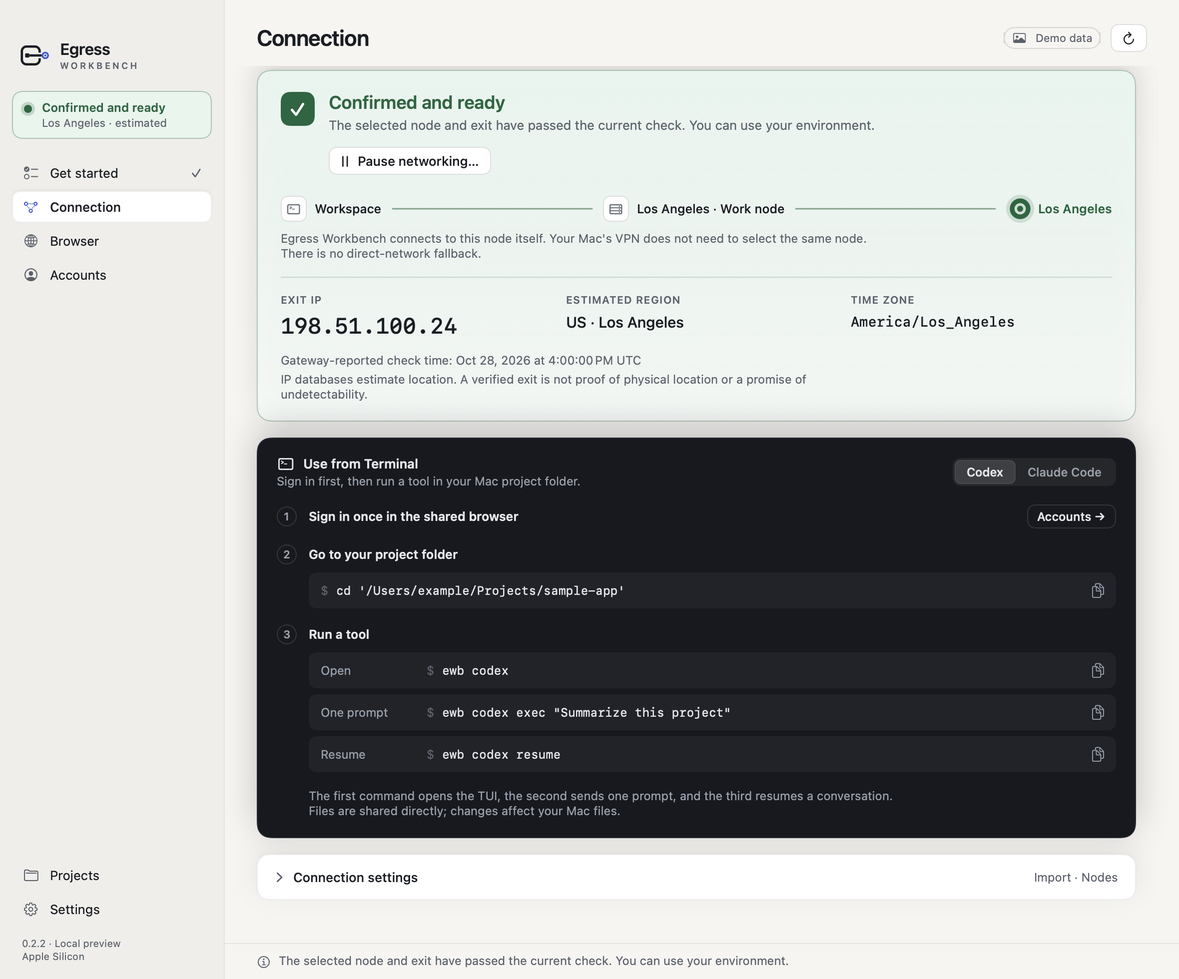
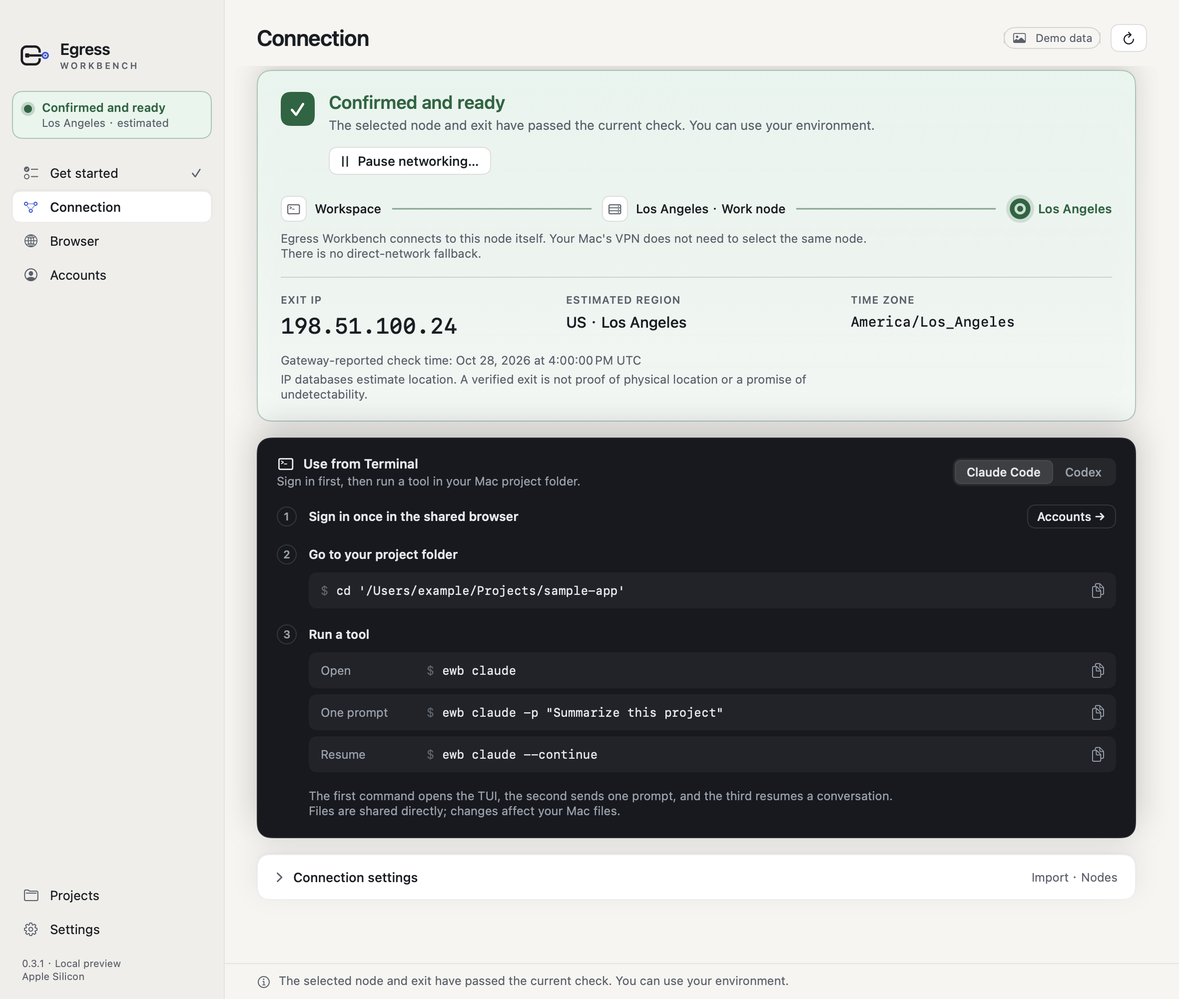
Present the fingerprint runtime environment with Claude Code first

diff --git a/README.md b/README.md
@@ -1,35 +1,39 @@
 <p align="center"><img src="assets/logo.svg" width="88" alt="Egress Workbench logo"></p>
-<h1 align="center">Egress Workbench</h1>
-<p align="center">Your tools. One confirmed route.</p>
+<h1 align="center">Egress Workbench | Fingerprint Runtime Environment</h1>
+<p align="center">A fingerprint-browser-style workspace for Claude Code and Codex.</p>
 <p align="center"><strong>English</strong> · <a href="README.zh-CN.md">简体中文</a></p>
 
-Egress Workbench is a macOS app for running Codex, Claude Code and a shared Chromium browser in persistent Linux workspaces. Your project files stay on your Mac; the tools can read and edit the folder you choose. Application traffic goes through the connection node you select and confirm.
+Egress Workbench is a **fingerprint runtime environment** for macOS. Think of the idea behind a fingerprint browser, extended to command-line tools: Claude Code, Codex and shared Chromium work within the same environment, using your selected network exit and configured time zone. The tools run in persistent Linux workspaces and can read and edit the project folder you choose on your Mac.
+
+The name describes this product approach. The current implementation checks the exit IP and estimated region, applies the configured time zone, and preserves tool and browser state. Linux, container and hardware characteristics may remain detectable; this is not a physical-machine emulator or an anonymity, anti-ban or account-acceptance guarantee. Other tools need their own compatibility checks.
 
 **Set up once, then work from Terminal.** Software, sign-ins and conversations survive stopping and restarting the environment. Different projects have separate workspace directories; the supported tools share their account authorization.
 
-> **0.3.0 release:** this repository contains the public documentation and screenshots. Download the Apple Silicon DMG from the [v0.3.0 release](https://github.com/bbfp/egress-workbench-app/releases/tag/v0.3.0). The app is ad-hoc signed and has not been Apple-notarized.
+> **0.3.1 release:** this repository contains the public documentation and screenshots. Download the Apple Silicon DMG from the [v0.3.1 release](https://github.com/bbfp/egress-workbench-app/releases/tag/v0.3.1). The app is ad-hoc signed and has not been Apple-notarized.
 
-## 0.3.0 release
+## 0.3.1 release
 
-[Download the full DMG, about 1.152 GB](https://github.com/bbfp/egress-workbench-app/releases/download/v0.3.0/Egress-Workbench-0.3.0-arm64.dmg) · [SHA-256](https://github.com/bbfp/egress-workbench-app/releases/download/v0.3.0/Egress-Workbench-0.3.0-arm64.dmg.sha256) · [Release notes](https://github.com/bbfp/egress-workbench-app/releases/tag/v0.3.0)
+[Download the full DMG, about 1.149 GB](https://github.com/bbfp/egress-workbench-app/releases/download/v0.3.1/Egress-Workbench-0.3.1-arm64.dmg) · [SHA-256](https://github.com/bbfp/egress-workbench-app/releases/download/v0.3.1/Egress-Workbench-0.3.1-arm64.dmg.sha256) · [Release notes](https://github.com/bbfp/egress-workbench-app/releases/tag/v0.3.1)
 
 This release targets Apple Silicon Macs running macOS 14 or later. The DMG contains the offline environment and has this SHA-256 digest:
 
 ```text
[2 lines of base64/hex data omitted]
 ```
 
 The public repository contains guides and screenshots. The application source is not published here.
 
-0.3.0 uses MOYU attribution, keeps Swift debug symbols outside the distributed app, and stages Python from its verified original archive to avoid local build-cache paths. It retains the functionality of 0.2.9, which fixes Codex and Claude Code sign-in detection and makes account states easier to distinguish. It adds two network-check website shortcuts that open inside the shared Chromium browser. Docker containerd/classic compatibility, environment checks, read-only runtime component volumes, source protection and telemetry defaults are retained.
+0.3.1 updates the product introduction and examples, and puts Claude Code first in the app's command tabs, account cards and project buttons. Codex remains available with the same commands. Runtime components, Docker containerd/classic support, source protection and telemetry defaults are unchanged from 0.3.0.
+
+**This is a test release.** It began as a tool for personal use; bugs and compatibility gaps may remain. The repository publishes the App, documentation and screenshots, without the application's own source code.
 
 ![Native connection screen with explicitly labeled demonstration data](assets/connection-en.png)
 
-*Screenshots show the native app using labeled demonstration data. The example IP and region are illustrative, not a live connection measurement.*
+*Screenshots show the native app using labeled demonstration data. The IP, region and project paths shown are examples, not user data or live connection measurements.*
 
 ## What it does
 
-- **Persistent tools:** Codex, Claude Code and Chromium are included in the full installer. You bring your own accounts and connection subscription.
+- **Persistent tools:** Claude Code, Codex and Chromium are included in the full installer. You bring your own accounts and connection subscription.
 - **A controlled network route:** the environment connects to the chosen node itself. It does not fall back to an ordinary direct connection when the node is unavailable.
 - **Explicit connection approval:** inspect the measured exit IP, estimated region and time zone before enabling the environment. A detected node or exit change requires a new check and confirmation.
 - **Real project files:** run a command from your Mac project directory to share it with that project's Linux workspace. Multiple projects can run concurrently.
@@ -40,7 +44,7 @@ The public repository contains guides and screenshots. The application source is
 
 You need an **Apple Silicon Mac with macOS 14 or later**, a running **Docker Desktop** installation, enough storage for the included Linux environment, and a supported connection node. The app uses Docker Desktop's `desktop-linux` environment. OrbStack and Colima are detected but are not supported as runtime engines.
 
-Version 0.3.0 supports fixed public IPv4 nodes: **Trojan TCP/TLS, VMess AEAD TCP with optional TLS, VLESS TCP/TLS, and Shadowsocks AEAD/2022 TCP without plugins**. Existing subscription URLs, URI/Base64 lists, Clash `proxies`, and EWB profiles remain compatible. Unsupported transports and options are reported with a reason; the app does not silently convert them to a weaker connection mode.
+Version 0.3.1 supports fixed public IPv4 nodes: **Trojan TCP/TLS, VMess AEAD TCP with optional TLS, VLESS TCP/TLS, and Shadowsocks AEAD/2022 TCP without plugins**. Existing subscription URLs, URI/Base64 lists, Clash `proxies`, and EWB profiles remain compatible. Unsupported transports and options are reported with a reason; the app does not silently convert them to a weaker connection mode.
 
 A single-object Trojan client JSON can also be pasted or imported when it contains fields such as `type`, `host`, `port` and `password`. The optional `data` URL is not fetched or retained, and an `udp` flag does not enable UDP. Other raw client JSON exports are not supported yet.
 
@@ -52,10 +56,10 @@ A single-object Trojan client JSON can also be pasted or imported when it contai
 
 1. **Install the app.** Open the DMG, drag Egress Workbench to Applications, and launch Docker Desktop. Open Egress Workbench. Follow macOS's normal security approval process for a preview build; do not disable system protection globally.
 2. **Confirm a data folder.** Keep the default, or choose a dedicated folder on an external drive. Confirm this location before importing the environment.
-3. **Import the included environment.** The app verifies and imports the bundled components locally. It does not download Codex, Claude Code or Chromium one by one. Wait for installation to finish; a failed attempt retains existing data and can be retried in the same directory.
+3. **Import the included environment.** The app verifies and imports the bundled components locally. It does not download Claude Code, Codex or Chromium one by one. Wait for installation to finish; a failed attempt retains existing data and can be retried in the same directory.
 4. **Import and select a node.** Paste your subscription or node link, or choose a file. Pick a supported node and click **Check**. The app asks before stopping any running work in this environment to check a node. Subscriptions are parsed locally. A provider's certificate-compatibility setting may require a trust confirmation; no certificate file or fingerprint needs to be entered by hand.
 5. **Review the exit.** Check the exit IP, estimated region and time zone. Click **Review and confirm**. Continue only when the connection reads **Confirmed and ready**.
-6. **Sign in when needed.** Open **Accounts**, then choose Codex or Claude Code. Terminal shows progress. Complete authorization on the official page **inside the shared browser's remote screen**. Do not copy its authorization URL into the Mac browser's address bar.
+6. **Sign in when needed.** Open **Accounts**, then choose Claude Code or Codex. Terminal shows progress. Complete authorization on the official page **inside the shared browser's remote screen**. Do not copy its authorization URL into the Mac browser's address bar.
    You can skip the account step and return later. Finishing the setup guide does not certify an account login.
 7. **Open your project in Terminal.** Use the command examples on the Connection page. They target the selected data folder, even if your Mac already has another Egress Workbench installation.
 
@@ -89,16 +93,16 @@ The app shows a full command path when it cannot verify the short `ewb` entry. *
 cd /path/to/your-project
 
 # Interactive tools
-ewb codex
 ewb claude
+ewb codex
 
 # Send one request
-ewb codex exec "Summarize this project"
 ewb claude -p "Summarize this project"
+ewb codex exec "Summarize this project"
 
 # Continue an earlier conversation
-ewb codex resume
 ewb claude --continue
+ewb codex resume
 
 # Enter the project's Linux shell
 ewb shell
@@ -114,15 +118,15 @@ Save your work before checking a node: the check stops this environment's worklo
 
 ### Update an existing environment
 
-**From 0.2.9 to 0.3.0:** replace the app. The runtime components are byte-identical, so this release introduces no runtime migration or renewed sign-in requirement. macOS may ask you to approve opening the updated app.
+**From 0.2.9 or 0.3.0 to 0.3.1:** replace the app. The runtime components are byte-identical, so this release introduces no runtime migration or renewed sign-in requirement. macOS may ask you to approve opening the updated app.
 
 After replacing the app, check the runtime component status in Settings and use the offered update entry. The 0.2.7 → 0.2.9 update was tested with existing authorization, configuration, project records, writable container data and persistent volumes preserved, and the previous runtime backed up. Replacing the app alone does not update installed runtime components. Initialized 0.2.6 protected environments also retain the backup-and-upgrade path. End active sessions before updating. A successful update leaves the environment stopped until you check and confirm the connection again. An old directory that has not been initialized directs you to finish connection setup. Older or incompatible layouts require a new dedicated directory and retain the original data. If recovery is pending, keep Docker running and choose Continue recovery.
 
 ### Accounts
 
 ```sh
-ewb login                 # Codex
 ewb claude auth login     # Claude Code
+ewb login                 # Codex
 ```
 
 These commands use the shared internal browser. A failed internal browser flow stops rather than opening an account page in the Mac browser. The browser keeps its cookies, but providers can expire sessions or require new verification. **An unknown account status is not the same as being signed out.** Ordinary environment restarts do not deliberately erase authorization.
@@ -187,7 +191,7 @@ Created by [MOYU](https://github.com/bbfp).
 
 ## License and scope
 
-Licensor: MOYU. The [PolyForm Noncommercial License 1.0.0](LICENSE) covers MOYU's original documentation, images and descriptions in this repository, and the 0.3.0 Release App published on GitHub Releases, to the extent MOYU holds the relevant rights. The 0.3.0 Release App is offered for the noncommercial purposes stated in the license, subject to its scope and notices. Third-party components remain under their own licenses. If you copy or redistribute material covered by this license, include the LICENSE text or its official URL and any notices that LICENSE requires. The license includes its stated permissions for charitable, educational, public research, public safety or health, environmental protection and government institutions. If this summary conflicts with the [LICENSE](LICENSE) text, the LICENSE text controls.
+Licensor: MOYU. The [PolyForm Noncommercial License 1.0.0](LICENSE) covers MOYU's original documentation, images and descriptions in this repository, and the 0.3.0 and 0.3.1 Release Apps published on GitHub Releases, to the extent MOYU holds the relevant rights. The 0.3.0 and 0.3.1 Release Apps are offered for the noncommercial purposes stated in the license, subject to its scope and notices. Third-party components remain under their own licenses. If you copy or redistribute material covered by this license, include the LICENSE text or its official URL and any notices that LICENSE requires. The license includes its stated permissions for charitable, educational, public research, public safety or health, environmental protection and government institutions. If this summary conflicts with the [LICENSE](LICENSE) text, the LICENSE text controls.
 
 PolyForm Noncommercial is a noncommercial license. It is not an OSI-approved open-source license, and it does not permit commercial use. This repository only publishes documentation, images and the Release App; it does not publish Egress Workbench's own source code. Adding LICENSE does not mean that the source code has been published or grant additional rights to unpublished source. Third-party components and services remain subject to their own licenses, terms and policies.
 

diff --git a/README.zh-CN.md b/README.zh-CN.md
@@ -1,35 +1,39 @@
 <p align="center"><img src="assets/logo.svg" width="88" alt="Egress Workbench 标志"></p>
-<h1 align="center">Egress Workbench</h1>
-<p align="center">你的工作工具，只走已确认的连接。</p>
+<h1 align="center">Egress Workbench｜指纹运行环境</h1>
+<p align="center">类比指纹浏览器，让 Claude Code、Codex 在同一套运行环境中工作。</p>
 <p align="center"><a href="README.md">English</a> · <strong>简体中文</strong></p>
 
-Egress Workbench 是一个 macOS 应用，用来在持久化的 Linux 工作环境中运行 Codex、Claude Code 和共享 Chromium 浏览器。项目文件仍保存在 Mac 上，环境中的工具能够读写你选择的目录。应用流量通过你选择并确认的节点联网。
+Egress Workbench 是面向 macOS 的**指纹运行环境**。可以把它理解成把指纹浏览器的思路延伸到命令行工具：Claude Code、Codex 和共享 Chromium 在同一套环境中，使用所选网络出口与配置好的时区。工具运行在持久化 Linux 工作空间中，可以读写你在 Mac 上选定的项目目录。
+
+这个名字用于说明产品思路。目前实现的是出口 IP 与估计地区核对、时区配置，以及工具和浏览器状态的持久化。Linux、容器和硬件特征仍可能被识别；它不是物理机模拟器，也不保证匿名、防封或账号被服务商接受。其他工具需要单独确认兼容性。
 
 **配置一次，之后直接在终端工作。** 停止、重启环境会保留软件、登录和会话。不同项目使用各自的工作目录，已支持的工具共用账号授权。
 
-> **0.3.0 发布版：** 此仓库提供公开说明和配图。Apple Silicon 安装包位于 [v0.3.0 Release](https://github.com/bbfp/egress-workbench-app/releases/tag/v0.3.0)。当前为 ad-hoc 签名，尚未通过 Apple 公证。
+> **0.3.1 发布版：** 此仓库提供公开说明和配图。Apple Silicon 安装包位于 [v0.3.1 Release](https://github.com/bbfp/egress-workbench-app/releases/tag/v0.3.1)。当前为 ad-hoc 签名，尚未通过 Apple 公证。
 
-## 0.3.0 发布版
+## 0.3.1 发布版
 
-[下载完整 DMG，约 1.152 GB](https://github.com/bbfp/egress-workbench-app/releases/download/v0.3.0/Egress-Workbench-0.3.0-arm64.dmg) · [SHA-256](https://github.com/bbfp/egress-workbench-app/releases/download/v0.3.0/Egress-Workbench-0.3.0-arm64.dmg.sha256) · [发布说明](https://github.com/bbfp/egress-workbench-app/releases/tag/v0.3.0)
+[下载完整 DMG，约 1.149 GB](https://github.com/bbfp/egress-workbench-app/releases/download/v0.3.1/Egress-Workbench-0.3.1-arm64.dmg) · [SHA-256](https://github.com/bbfp/egress-workbench-app/releases/download/v0.3.1/Egress-Workbench-0.3.1-arm64.dmg.sha256) · [发布说明](https://github.com/bbfp/egress-workbench-app/releases/tag/v0.3.1)
 
 本版本适用于 Apple Silicon、macOS 14 及以上，DMG 内含离线运行环境。SHA-256：
 
 ```text
[2 lines of base64/hex data omitted]
 ```
 
 公开仓库只提供使用说明和截图，应用源码不在这里发布。
 
-0.3.0 统一使用 MOYU 署名，将 Swift 调试符号保留在发布包之外，并从校验过的原始压缩包装配 Python，避免带入本地缓存路径。功能延续 0.2.9：修复 Codex 和 Claude Code 登录状态识别，并用颜色、图标和文字区分账号状态。浏览器增加两个网络检测网站入口，始终在共享 Chromium 内打开。Docker containerd/classic 兼容、环境检查、运行组件只读卷、源码保护和遥测默认保持不变。
+0.3.1 调整产品介绍和示例，并将 App 的命令标签、账号卡片和项目按钮改为 Claude Code 优先。Codex 继续可用，命令保持原样。运行组件、Docker containerd/classic 支持、源码保护和遥测默认均延续 0.3.0。
+
+**目前是测试版。** 项目最初用于个人使用，仍可能存在 bug 和兼容性问题。仓库公开 App、文档和配图，暂不公开应用自有源码。
 
 ![原生连接页面，明确标注为演示数据](assets/connection-zh.png)
 
-*截图来自原生应用，使用了标注为“演示数据”的示例内容。图中的 IP 和地区仅作说明，不是实际连接检测结果。*
+*截图来自原生应用，使用了标注为“演示数据”的示例内容。图中的 IP、地区和项目路径均为示例，不是用户数据或实际连接检测结果。*
 
 ## 能做什么
 
-- **持久化工作工具：** 完整安装包内包含 Codex、Claude Code 和 Chromium。节点订阅和工具账号由你提供。
+- **持久化工作工具：** 完整安装包内包含 Claude Code、Codex 和 Chromium。节点订阅和工具账号由你提供。
 - **固定联网路径：** 环境自行连接你选择的节点。节点不可用时，不会自动退回普通网络。
 - **连接由你确认：** 先查看实测出口 IP、估计地区和时区，再启用环境。检测到节点或出口变化后，需要重新检查并确认。
 - **操作真实项目文件：** 从 Mac 项目目录运行命令，即可将它共享给对应的 Linux 工作环境。多个项目可以同时使用。
@@ -40,7 +44,7 @@ f5e044116f9c26d7722a3270e1318b3304dbf46c3f22291c5e1b115698f69202
 
 需要一台运行 **macOS 14 或更新版本的 Apple Silicon Mac**、已启动的 **Docker Desktop**、足以容纳 Linux 环境的磁盘空间，以及支持的连接节点。当前使用 Docker Desktop 的 `desktop-linux` 环境；OrbStack、Colima 可以被识别，但暂不支持作为运行引擎。
 
-0.3.0 支持固定公网 IPv4 节点：**Trojan TCP/TLS、VMess AEAD TCP（可带 TLS）、VLESS TCP/TLS，以及无插件的 Shadowsocks AEAD/2022 TCP**。已有订阅链接、URI/Base64、Clash `proxies` 和 EWB 节点配置继续兼容。不支持的传输或选项会说明原因，不会暗中降级连接方式。
+0.3.1 支持固定公网 IPv4 节点：**Trojan TCP/TLS、VMess AEAD TCP（可带 TLS）、VLESS TCP/TLS，以及无插件的 Shadowsocks AEAD/2022 TCP**。已有订阅链接、URI/Base64、Clash `proxies` 和 EWB 节点配置继续兼容。不支持的传输或选项会说明原因，不会暗中降级连接方式。
 
 也可以直接粘贴或选择单个 Trojan 客户端 JSON，需包含 `type`、`host`、`port`、`password` 等字段。可选的 `data` 地址不会被访问或保存，`udp` 标志不会开启 UDP。其他协议的单对象客户端 JSON 暂不支持。
 
@@ -52,10 +56,10 @@ f5e044116f9c26d7722a3270e1318b3304dbf46c3f22291c5e1b115698f69202
 
 1. **安装应用。** 打开 DMG，将 Egress Workbench 拖到“应用程序”，启动 Docker Desktop，再打开 Egress Workbench。按 macOS 的正常流程批准打开预览版，不要全局关闭系统安全保护。
 2. **确认数据目录。** 可以保留默认位置，也可以选择外接硬盘上的专用文件夹。先确认位置，再导入环境。
-3. **导入安装包中的环境。** 应用会在本机校验并导入内置组件，不再分别下载 Codex、Claude Code 和 Chromium。等待完成；失败时会保留已有数据，可在同一目录重试。
+3. **导入安装包中的环境。** 应用会在本机校验并导入内置组件，不再分别下载 Claude Code、Codex 和 Chromium。等待完成；失败时会保留已有数据，可在同一目录重试。
 4. **导入并选择节点。** 粘贴订阅或节点链接，或选择配置文件，然后选中支持的节点并点击“检查”。检查节点会停止这套环境中正在运行的工作，应用会先请你确认。订阅只在本机解析。部分提供商使用证书兼容设置，可能需要确认信任该订阅；你无需手动提供证书文件或填写指纹。
 5. **核对出口。** 查看出口 IP、估计地区和时区，点击“核对并确认”。看到“已确认可用”后，再开始使用。
-6. **按需登录工具。** 打开“账号”，选择 Codex 或 Claude Code。终端会显示进度。请在**共享浏览器远程画面内的官方页面**完成授权，不要把授权链接复制到外层 Mac 浏览器地址栏。
+6. **按需登录工具。** 打开“账号”，选择 Claude Code 或 Codex。终端会显示进度。请在**共享浏览器远程画面内的官方页面**完成授权，不要把授权链接复制到外层 Mac 浏览器地址栏。
    可以先跳过账号步骤，稍后再登录。完成设置引导不代表账号已登录。
 7. **在终端打开项目。** 按“连接”页的示例运行。应用显示的命令会指向当前数据目录，避免电脑上已有另一套环境时误用旧命令。
 
@@ -89,16 +93,16 @@ f5e044116f9c26d7722a3270e1318b3304dbf46c3f22291c5e1b115698f69202
 cd /path/to/your-project
 
 # 打开交互界面
-ewb codex
 ewb claude
+ewb codex
 
 # 直接发送一个问题
-ewb codex exec "Summarize this project"
 ewb claude -p "Summarize this project"
+ewb codex exec "Summarize this project"
 
 # 继续已有会话
-ewb codex resume
 ewb claude --continue
+ewb codex resume
 
 # 进入当前项目的 Linux Shell
 ewb shell
@@ -114,15 +118,15 @@ ewb shell
 
 ### 更新已有环境
 
-**从 0.2.9 更新到 0.3.0：** 替换 App 即可。运行组件内容完全相同，本版本不需要迁移运行环境或重新登录；macOS 仍可能要求批准打开更新后的应用。
+**从 0.2.9 或 0.3.0 更新到 0.3.1：** 替换 App 即可。运行组件内容完全相同，本版本不需要迁移运行环境或重新登录；macOS 仍可能要求批准打开更新后的应用。
 
 替换 App 后，在“设置”查看运行组件状态，并使用提供的更新入口。0.2.7 → 0.2.9 已通过升级测试，原有授权、配置、项目登记、容器可写层和持久化卷保留，旧运行组件会备份。只替换 App 不会自动更新已安装的运行组件。已完成初始化的 0.2.6 保护版也保留备份升级路径。更新前请先结束活动会话。成功后环境保持停止，需要重新检查并确认连接。尚未初始化的旧目录会提示先完成连接设置；更旧或不兼容的目录会提示使用新专用目录，原数据保留。恢复未完成时，保持 Docker 运行并使用“继续恢复”。
 
 ### 账号登录
 
 ```sh
-ewb login                 # Codex
 ewb claude auth login     # Claude Code
+ewb login                 # Codex
 ```
 
 上述命令使用共享的内部浏览器。内部登录流程失败时会停止，不会回退到 Mac 浏览器打开账号页面。浏览器会保留 Cookie，但服务商可能让会话过期或要求重新验证身份。**账号状态未知不等于已经退出登录。** 普通重启环境不会主动清除授权。
@@ -187,7 +191,7 @@ ewb stop-all       # 停止这套环境，包括公共服务
 
 ## 许可证与适用范围
 
-许可方：MOYU。[PolyForm Noncommercial License 1.0.0](LICENSE) 适用于本仓库中 MOYU 的原创文档、配图和说明，以及 GitHub Releases 发布的 0.3.0 Release App，且以 MOYU 拥有相应权利的部分为限。0.3.0 Release App 按该许可证原文规定的非商业用途提供，并受其适用范围和通知要求约束。第三方组件仍适用其各自许可证。复制或再分发本许可证覆盖的材料时，请附带 LICENSE 原文或其官方 URL，以及 LICENSE 要求保留的通知。该许可证包含对慈善、教育、公共研究、公共安全或健康、环保和政府机构的许可范围。如果本摘要与 [LICENSE](LICENSE) 原文不一致，以 LICENSE 原文为准。
+许可方：MOYU。[PolyForm Noncommercial License 1.0.0](LICENSE) 适用于本仓库中 MOYU 的原创文档、配图和说明，以及 GitHub Releases 发布的 0.3.0 和 0.3.1 Release App，且以 MOYU 拥有相应权利的部分为限。0.3.0 和 0.3.1 Release App 按该许可证原文规定的非商业用途提供，并受其适用范围和通知要求约束。第三方组件仍适用其各自许可证。复制或再分发本许可证覆盖的材料时，请附带 LICENSE 原文或其官方 URL，以及 LICENSE 要求保留的通知。该许可证包含对慈善、教育、公共研究、公共安全或健康、环保和政府机构的许可范围。如果本摘要与 [LICENSE](LICENSE) 原文不一致，以 LICENSE 原文为准。
 
 PolyForm Noncommercial 是非商业许可，不是 OSI 认可的开源许可证，也不允许商业使用。当前仓库只公开文档、配图和 Release App，不包含 Egress Workbench 自有源代码；加入 LICENSE 不表示自有源码已经公开，也不构成对未公开源码的额外授权。第三方组件和服务继续适用各自的许可证、条款和政策。
 
